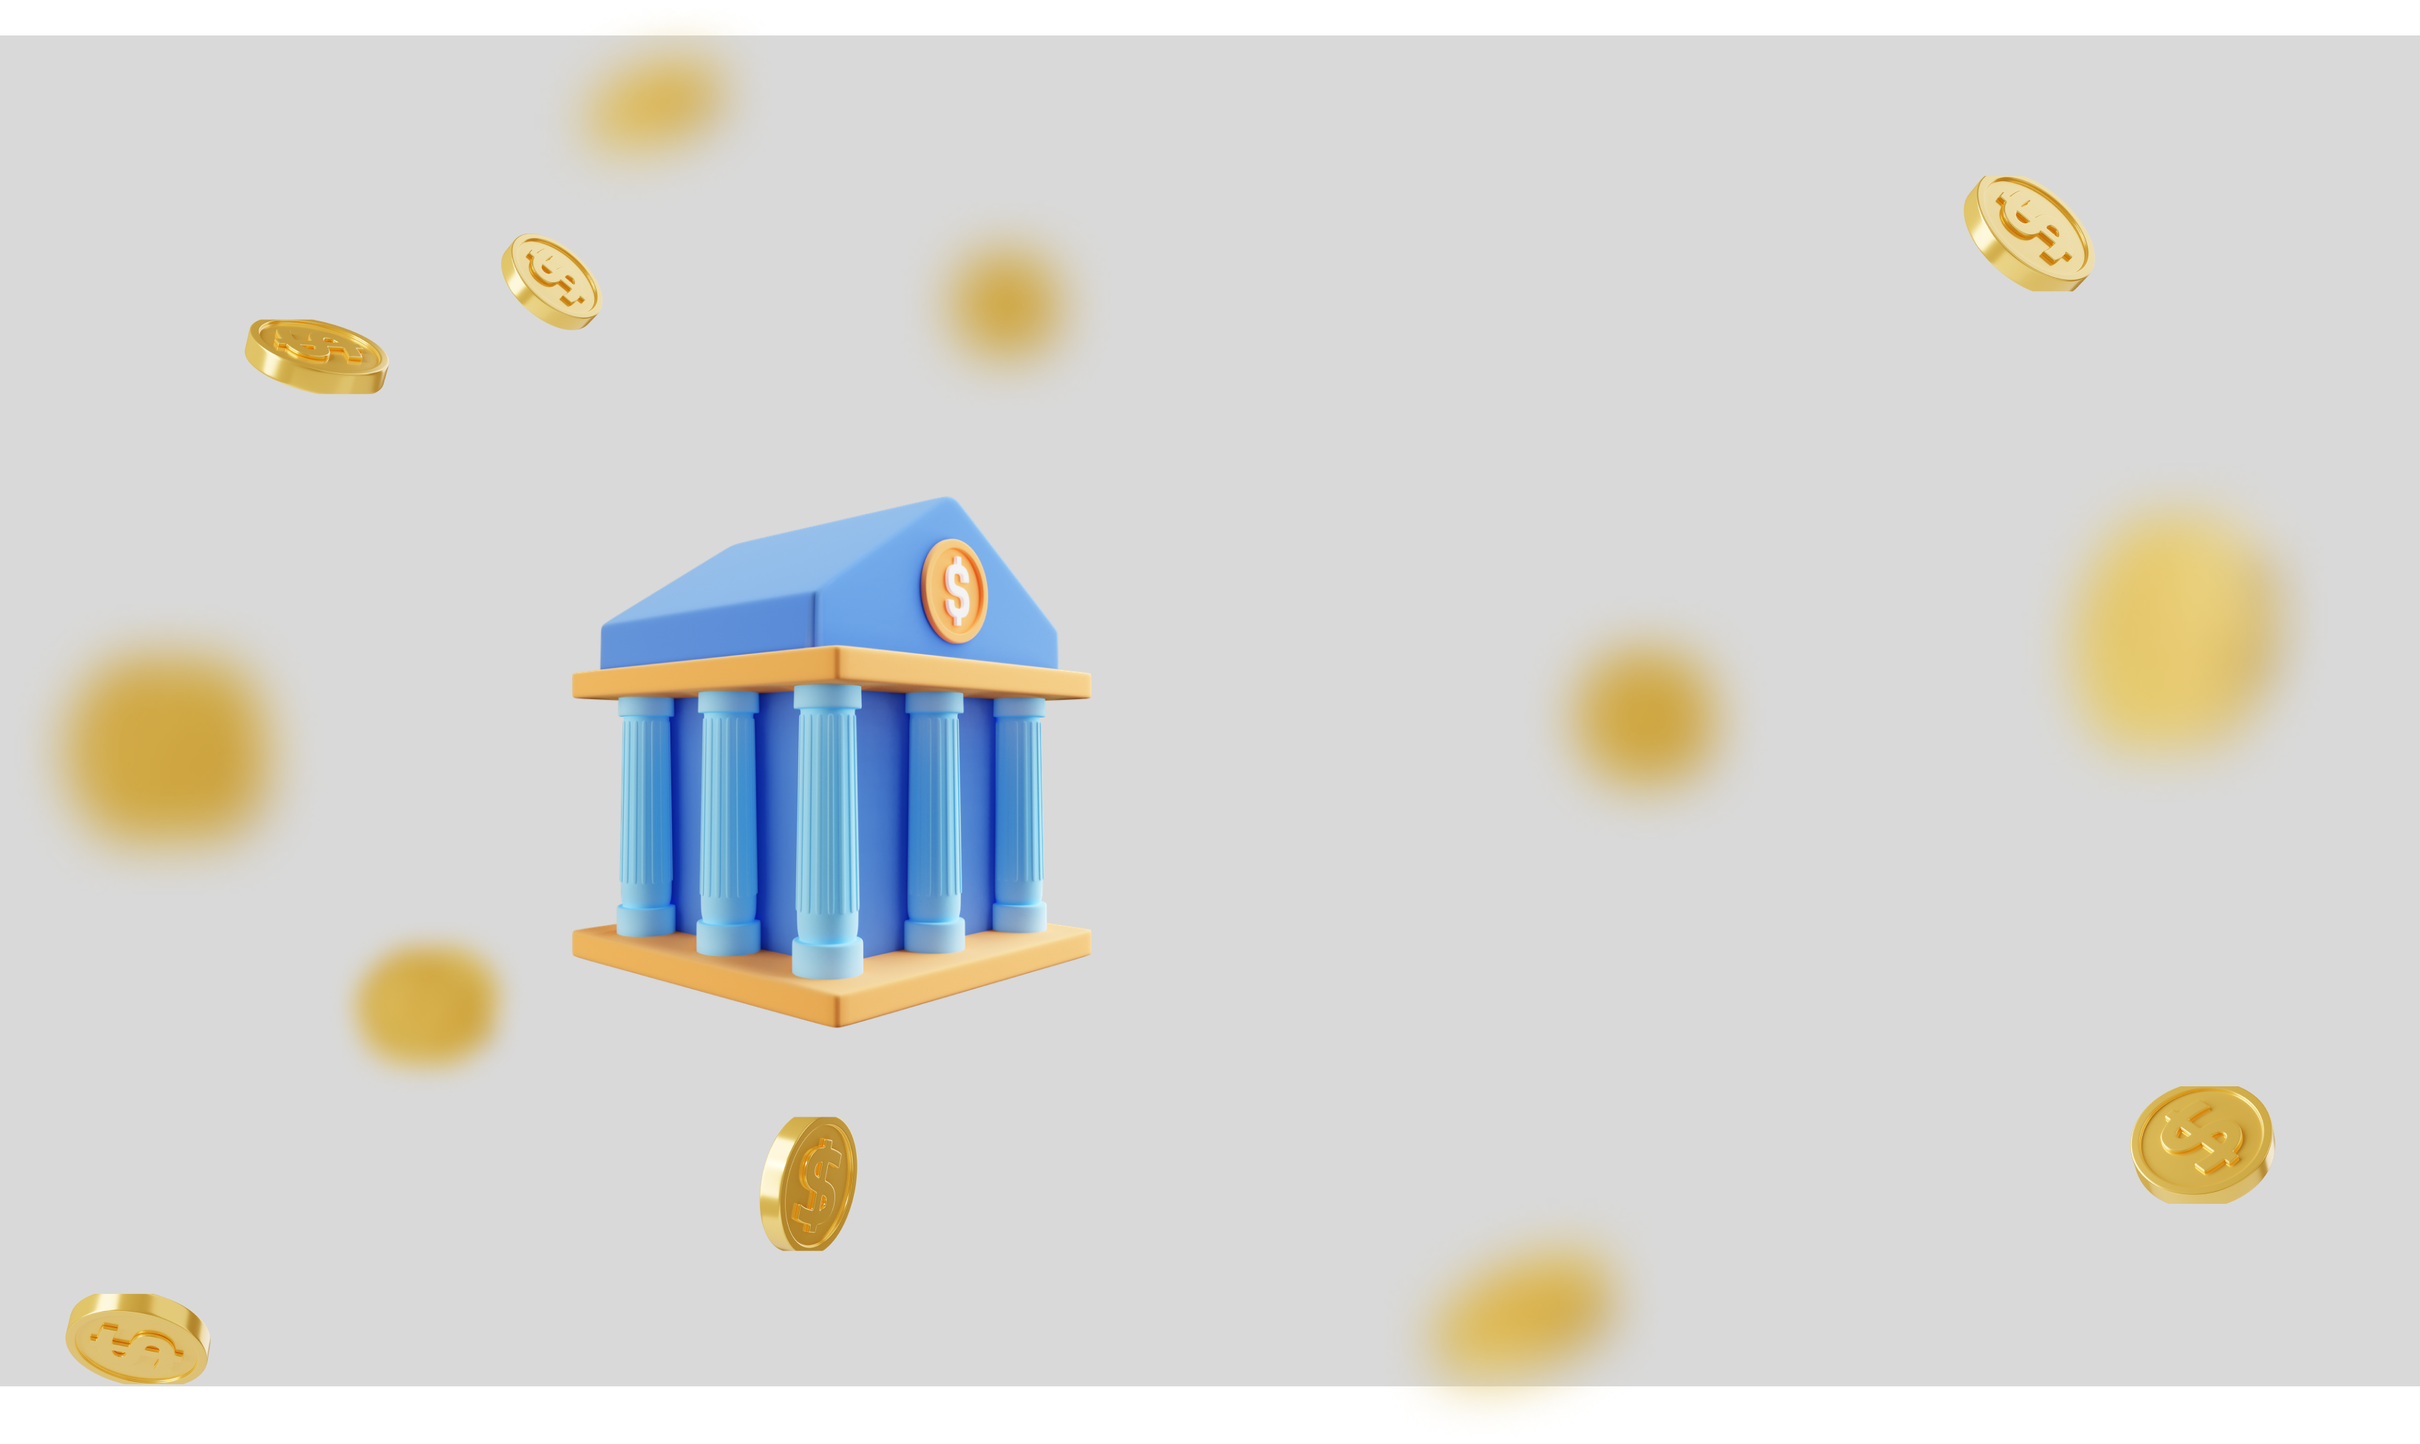
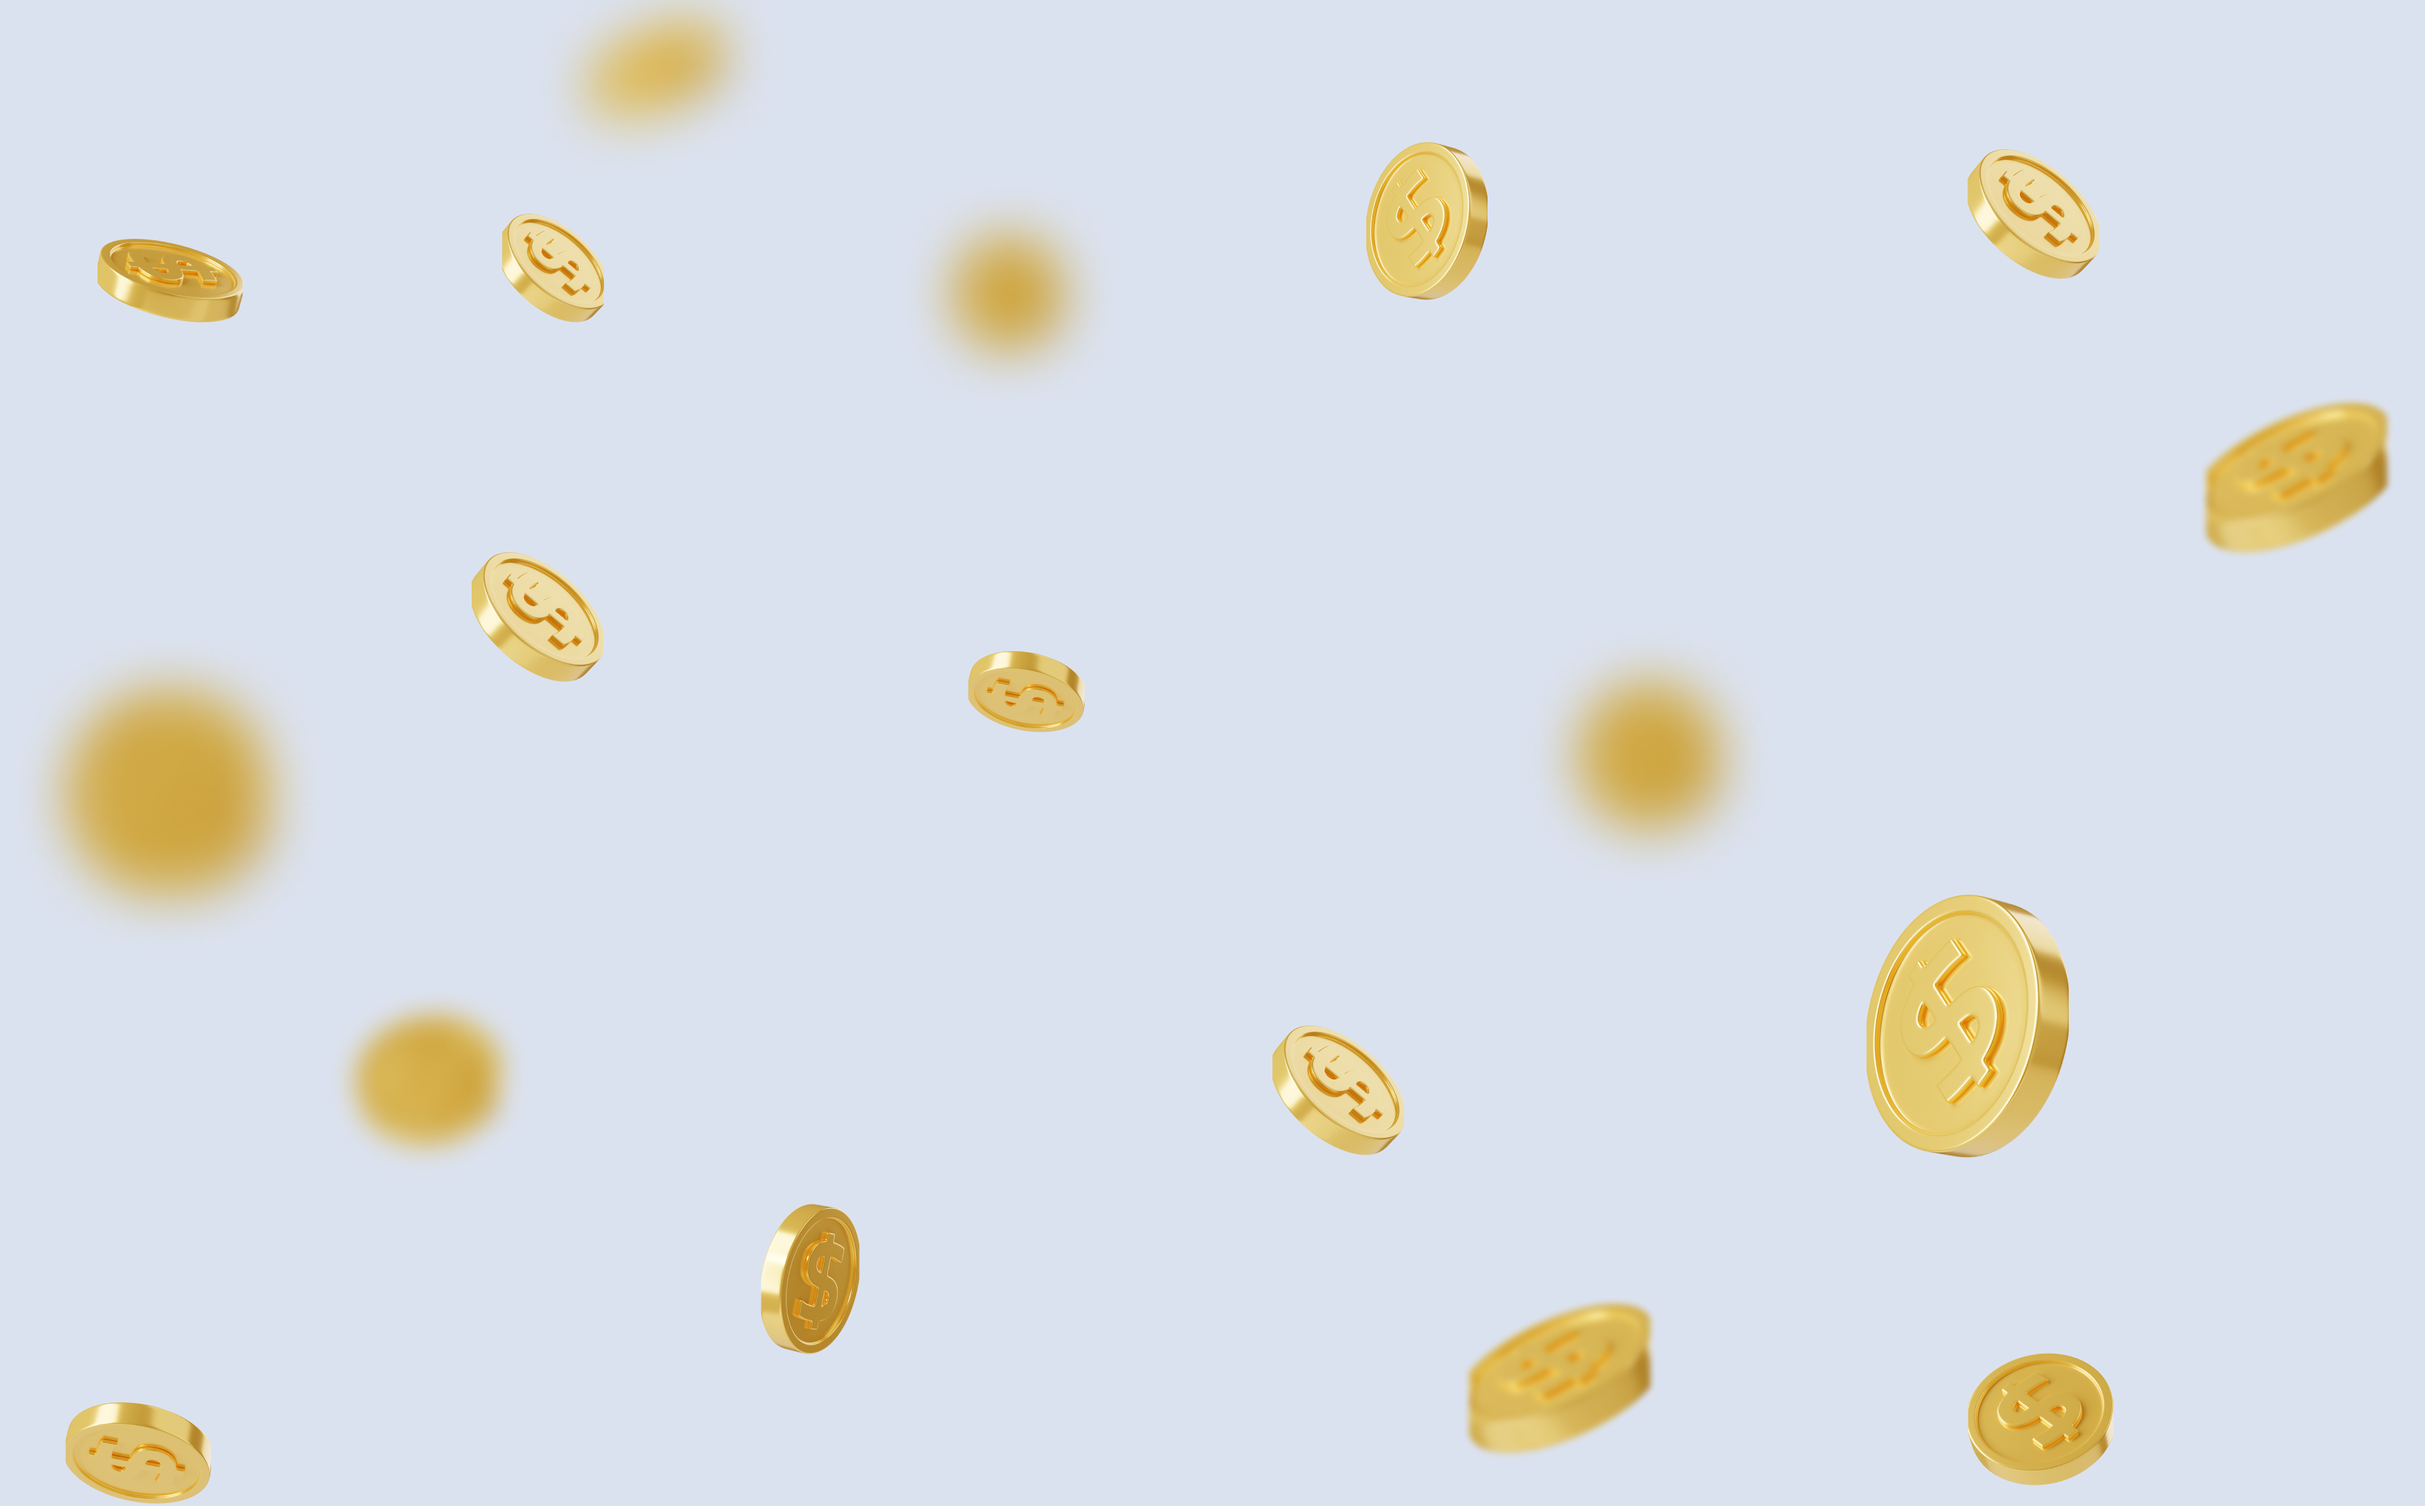
Solving an issue

diff --git a/Bank_Presentation_Layer_Web_App/wwwroot/css/style.css b/Bank_Presentation_Layer_Web_App/wwwroot/css/style.css
@@ -1,11 +1,12 @@
 html {
     width: 100%;
     height: 100%;
+    
 }
 
 body {
     margin-top: 5%;
-    height: 90%;
+    height: 100%;
 
     display: flex;
 
@@ -14,8 +15,13 @@ body {
     justify-content: space-between;
     align-items: stretch;
 
-    gap: 20px;
-    background-color: red;
+    gap: 0px;
+    
+    background-image: url("../pic/Background.png");
+    background-repeat: no-repeat;
+
+
+    
 }
 
 
@@ -192,38 +198,63 @@ footer {
     display: flex;
     justify-content: center;
     background-color: #112D4E;
+
+
+    flex: 1;
 }
 
 
 
 
 .main-div {
-    background-image: url("../pic/Background.png");
-    background-repeat: no-repeat;
-    background-size: cover;
+   
 
+    
+
+    display: flex;
     width: 100%;
     height: 100%;
 
-   
-    display: flex;
-    flex-direction: column;
+    flex-direction: row;
     justify-content: center;
+    flex:19;
+    padding: 0px;
+
+    flex-flow: wrap;
+
+    background-color: #DBE2EF;
+}
+
+.img-container{
+    display: flex;
+    justify-content: center;
+    align-items: center;
+    
+}
+
+.img-container img{
+    width: 90%;
 }
 
 .main-container {
     display: flex;
-    flex-direction: column;
+    flex-direction: row;
+
     justify-content: center;
     align-items: center;
 
-    align-self: stretch;
-
-    background-color: #DBE2EF;
-
     padding: 20px;
     
-    margin-left: 20%;
+    
+
+    flex: 19;
+
+    gap: 20px;
+
+    flex-flow: wrap;
+
+   
+    
    
 }
 
@@ -621,10 +652,10 @@ div .last-name {
     flex-direction: column;
     gap: 20px;
     justify-content: center;
-    align-items: center;
+    align-items: flex-start;
+
     width: fit-content;
-    height: 80%;
-    position: relative;
-    left: 50%;
-    top: 20%;
+
+    
+    
 }

diff --git a/PrototypePresentationLayerWebApp/welcm.html b/PrototypePresentationLayerWebApp/welcm.html
@@ -19,11 +19,15 @@
             </div>
         </div>
 
-        <a class="button button2">Log In</a>
+        <button class="button1">Log In</button>
        
     </nav>
 
-    <div class="main-div">
+    <div class="main-container">
+
+        <div class="img-container">
+            <img src="../Bank_Presentation_Layer_Web_App/wwwroot/pic/bank.png" alt="">
+        </div>
         <section class="container" id="wlcm-content">
             <h1>Lorem ipsum
                 dolor sit amet</h1>
@@ -32,8 +36,7 @@
             </p>
     
     
-            <a class="button" id="get-started">Get Started</a>
-    
+            <button class="get-started">Get Started</button>
         </section>
     </div>
     

diff --git a/PrototypePresentationLayerWebApp/style.css b/PrototypePresentationLayerWebApp/style.css
@@ -199,10 +199,6 @@ footer{
     display: flex;
     flex-direction: column;
     justify-content: space-between;
-
-    background-image: url("Background.png");
-    background-repeat: no-repeat;
-    background-size: cover;
 }
 
 
@@ -602,4 +598,5 @@ div .last-name{
     position: relative;
     left: 50%;
     top: 20%;
+    
 }

diff --git a/PrototypePresentationLayerWebApp/signUp.html b/PrototypePresentationLayerWebApp/signUp.html
@@ -23,19 +23,6 @@
        
     </nav>
 
-
-
-
-
-
-
-
-
-
-
-
-
-
     <section class="main-div">
        
         <section class="container" id="sign-up">
